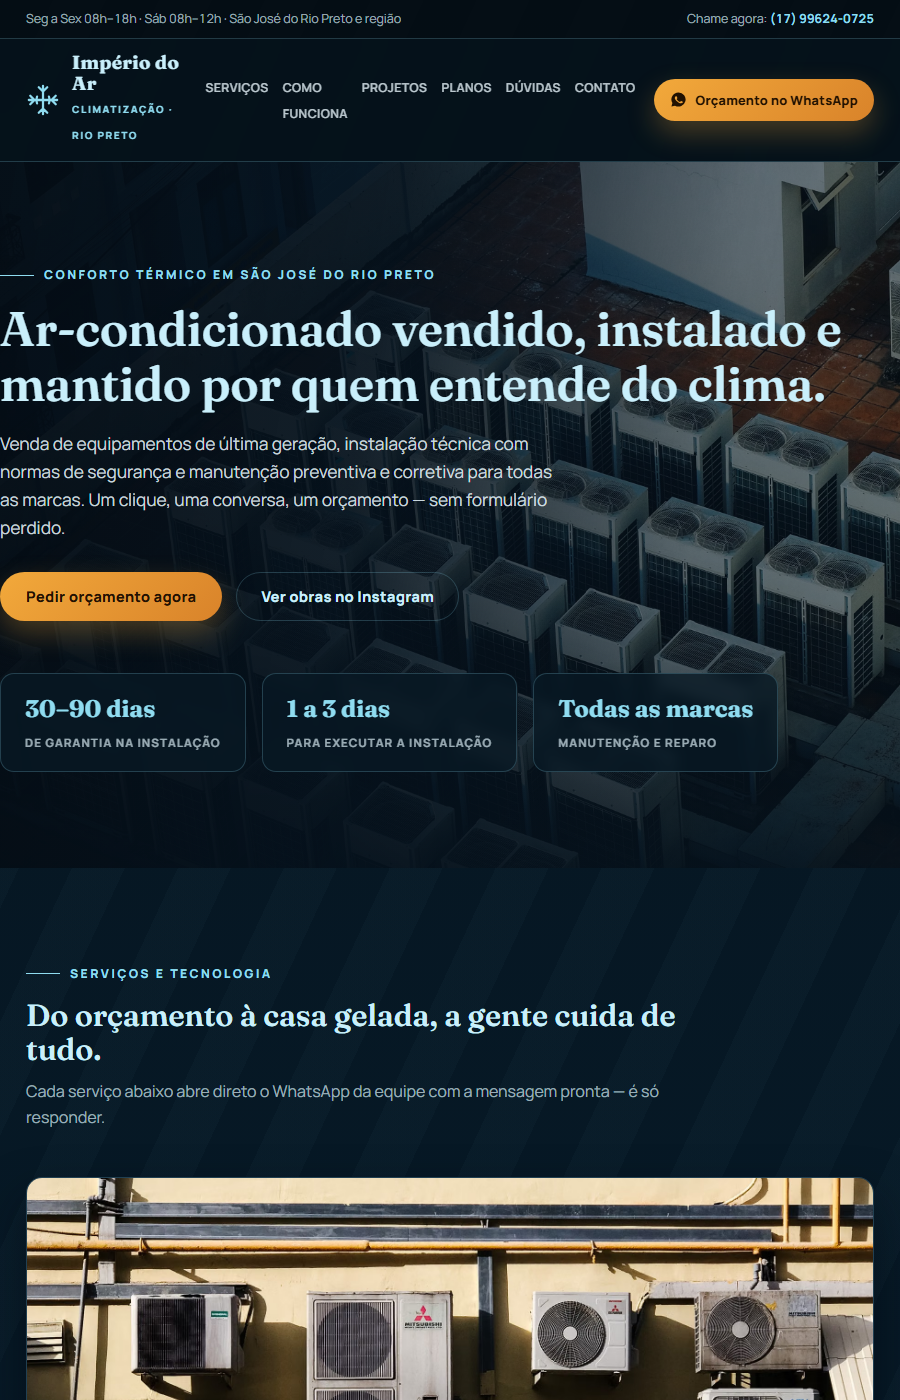
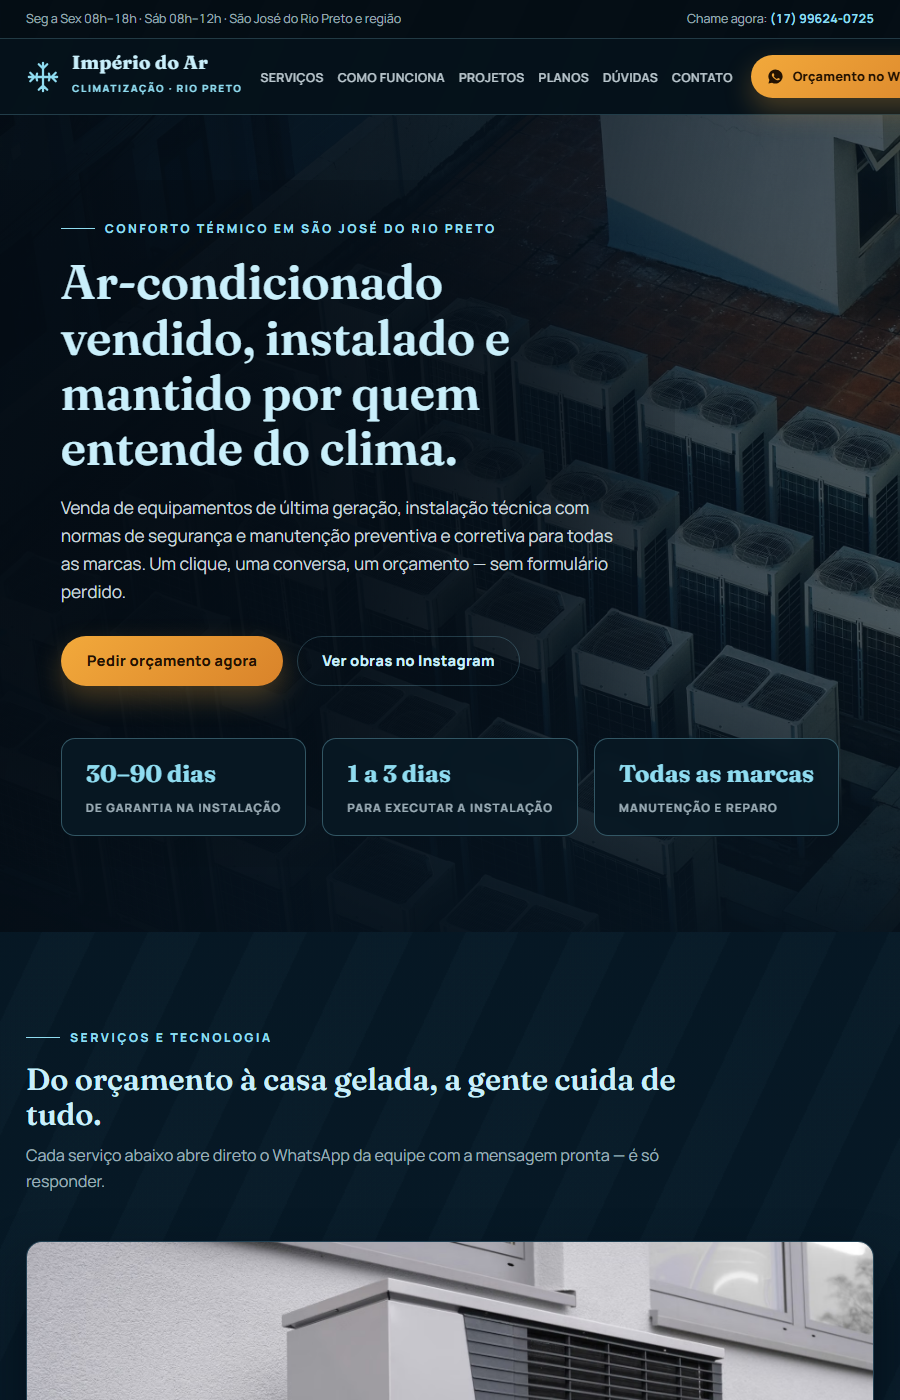
protos: publica imperio-do-ar (gate R5: 8.5/10 )

diff --git a/p/imperio-do-ar/index.html b/p/imperio-do-ar/index.html
@@ -84,34 +84,36 @@ nav{position:sticky;top:0;z-index:50;background:rgba(5,17,26,.92);backdrop-filte
 .logo{display:flex;align-items:center;gap:12px;text-decoration:none}
 .logo svg{flex:none}
 .logo b{font-family:'Fraunces',serif;font-size:1.18rem;color:var(--ice-soft);letter-spacing:.02em;display:block;line-height:1.1}
-.logo small{font-size:.62rem;letter-spacing:.24em;text-transform:uppercase;color:var(--ice);font-weight:800}
-.nav-links{display:flex;gap:26px;list-style:none}
-.nav-links a{color:rgba(228,242,248,.82);text-decoration:none;font-size:.86rem;font-weight:600;letter-spacing:.04em;text-transform:uppercase}
+.logo small{font-size:.62rem;letter-spacing:.18em;text-transform:uppercase;color:var(--ice);font-weight:800;white-space:nowrap}
+.nav-links{display:flex;gap:20px;list-style:none}
+.nav-links a{color:rgba(228,242,248,.82);text-decoration:none;font-size:.86rem;font-weight:600;letter-spacing:.04em;text-transform:uppercase;white-space:nowrap}
 .nav-links a:hover{color:var(--ice)}
 .btn{display:inline-flex;align-items:center;gap:9px;border-radius:999px;font-weight:800;font-size:.92rem;letter-spacing:.02em;text-decoration:none;transition:transform .2s,box-shadow .2s;white-space:nowrap}
 .btn svg{flex:none}
 .btn-wa{background:linear-gradient(135deg,var(--amber),var(--amber-deep));color:#221202;padding:13px 26px;box-shadow:0 12px 28px rgba(242,169,59,.28)}
 .btn-wa:hover{transform:translateY(-2px)}
 .btn-ghost{border:1px solid var(--line);color:var(--ice-soft);padding:12px 24px}
+.btn-short{display:none}
 .btn-ghost:hover{border-color:var(--ice)}
 @media(max-width:860px){.nav-links{display:none}}
 @media(min-width:861px) and (max-width:1080px){.nav-links{gap:14px}.nav-links a{font-size:.76rem}.nav-in .btn-wa{white-space:nowrap;padding:11px 16px;font-size:.8rem}.logo small{letter-spacing:.16em}}
-@media(max-width:640px){.nav-in{padding:12px 16px}.nav-in .btn-wa{padding:11px 15px;font-size:.8rem}.logo b{font-size:1.02rem}}
+@media(max-width:640px){.nav-in{padding:12px 16px}.nav-in .btn-wa{padding:10px 14px;font-size:.78rem;gap:6px}.logo b{font-size:1.02rem}.logo small{font-size:.55rem;letter-spacing:.1em}.nav-in .btn-wa .btn-full{display:none}.nav-in .btn-wa .btn-short{display:inline}}
 
 /* hero */
 .hero{position:relative;min-height:640px;display:flex;align-items:center;overflow:hidden}
+.hero::before{content:"";position:absolute;z-index:1;left:-10%;top:8%;width:85%;height:84%;background:radial-gradient(ellipse at 35% 45%, rgba(4,12,20,.82) 0%, rgba(4,12,20,.45) 55%, transparent 78%);pointer-events:none}
 .hero-bg{position:absolute;inset:0;background:url('https://images.pexels.com/photos/19016904/pexels-photo-19016904.jpeg?auto=compress&cs=tinysrgb&fit=crop&h=1000&w=1600&dpr=2') center 30%/cover no-repeat}
 .hero-bg::after{content:"";position:absolute;inset:0;background:
-  linear-gradient(100deg, rgba(4,12,20,.97) 0%, rgba(5,17,28,.92) 40%, rgba(6,20,32,.55) 74%, rgba(6,20,32,.5) 100%),
+  linear-gradient(100deg, rgba(4,12,20,.97) 0%, rgba(5,17,28,.92) 40%, rgba(6,20,32,.72) 74%, rgba(6,20,32,.62) 100%),
   linear-gradient(180deg, transparent 62%, rgba(5,14,22,.86) 100%)}
 .hero-in{position:relative;z-index:2;padding:96px 0}
-.hero h1{font-size:clamp(2.3rem,5.4vw,3.7rem);margin:16px 0 18px}
+.hero h1{font-size:clamp(2.3rem,5.4vw,3.7rem);margin:16px 0 18px;max-width:17ch}
 .hero .lede{max-width:54ch;color:rgba(228,242,248,.88);font-size:1.08rem;margin-bottom:30px}
 .hero-ctas{display:flex;gap:14px;flex-wrap:wrap;align-items:center}
 .hero-note{font-size:.82rem;color:var(--mut)}
 .hero-note a{color:var(--ice)}
 .stats{display:grid;grid-template-columns:repeat(3,auto);gap:16px;margin-top:52px;justify-content:start}
-.stat{background:rgba(8,24,36,.78);border:1px solid var(--line);border-radius:14px;padding:16px 24px;backdrop-filter:blur(6px)}
+.stat{background:rgba(8,24,36,.9);border:1px solid rgba(143,220,240,.32);border-radius:14px;padding:16px 24px;backdrop-filter:blur(6px)}
 .stat b{display:block;font-family:'Fraunces',serif;font-size:1.5rem;color:var(--ice)}
 .stat span{font-size:.72rem;letter-spacing:.1em;text-transform:uppercase;color:var(--mut);font-weight:700}
 @media(max-width:640px){.stats{grid-template-columns:1fr 1fr}.stat:last-child{grid-column:span 2}}
@@ -232,7 +234,7 @@ footer .wrap{display:flex;justify-content:space-between;gap:16px;flex-wrap:wrap}
     </ul>
     <a class="btn btn-wa" href="https://wa.me/5517996240725?text=Ol%C3%A1!%20Quero%20um%20or%C3%A7amento%20de%20climatiza%C3%A7%C3%A3o.">
       <svg width="17" height="17" viewBox="0 0 24 24" fill="currentColor"><path d="M12 2a10 10 0 0 0-8.6 15.1L2 22l5.1-1.3A10 10 0 1 0 12 2Zm5.3 14.1c-.2.6-1.2 1.1-1.7 1.2-.5.1-1 .1-1.6-.1-.4-.1-.9-.3-1.5-.6-2.7-1.2-4.4-3.9-4.6-4.1-.1-.2-1.1-1.4-1.1-2.7s.7-1.9.9-2.2c.2-.2.5-.3.7-.3h.5c.2 0 .4 0 .6.4l.8 2c.1.2.1.4 0 .6l-.4.5-.3.4c-.1.1-.3.3-.1.6.2.3.8 1.3 1.7 2.1 1.2 1.1 2.2 1.4 2.5 1.5.3.1.5.1.7-.1l.9-1c.2-.2.4-.2.6-.1l2 1c.2.1.4.2.4.3.1.1.1.6-.1 1.2Z"/></svg>
-      Orçamento no WhatsApp
+      <span class="btn-full">Orçamento no WhatsApp</span><span class="btn-short">Orçamento</span>
     </a>
   </div>
 </nav>
@@ -264,7 +266,7 @@ footer .wrap{display:flex;justify-content:space-between;gap:16px;flex-wrap:wrap}
     </div>
     <div class="svc-grid">
       <article class="svc wide">
-        <img src="https://images.pexels.com/photos/10380749/pexels-photo-10380749.jpeg?auto=compress&cs=tinysrgb&fit=crop&h=620&w=920&dpr=2" alt="Fileira de unidades externas de ar-condicionado instaladas em fachada">
+        <img src="https://images.pexels.com/photos/20046692/pexels-photo-20046692.jpeg?auto=compress&cs=tinysrgb&fit=crop&h=620&w=920&dpr=2" alt="Unidade externa de ar-condicionado nova, instalada sobre suporte em parede limpa">
         <div class="svc-b">
           <span class="k">Destaque</span>
           <h3>Venda de equipamentos</h3>
@@ -278,7 +280,7 @@ footer .wrap{display:flex;justify-content:space-between;gap:16px;flex-wrap:wrap}
         </div>
       </article>
       <article class="svc">
-        <img src="https://images.pexels.com/photos/16592625/pexels-photo-16592625.jpeg?auto=compress&cs=tinysrgb&fit=crop&h=620&w=920&dpr=2" alt="Unidade interna de ar-condicionado split instalada em ambiente">
+        <img src="https://images.pexels.com/photos/38788452/pexels-photo-38788452.jpeg?auto=compress&cs=tinysrgb&fit=crop&h=620&w=920&dpr=2" alt="Evaporadora split branca instalada no alto da parede, sem cabos aparentes">
         <div class="svc-b">
           <span class="k">Obra limpa</span>
           <h3>Instalação profissional</h3>
